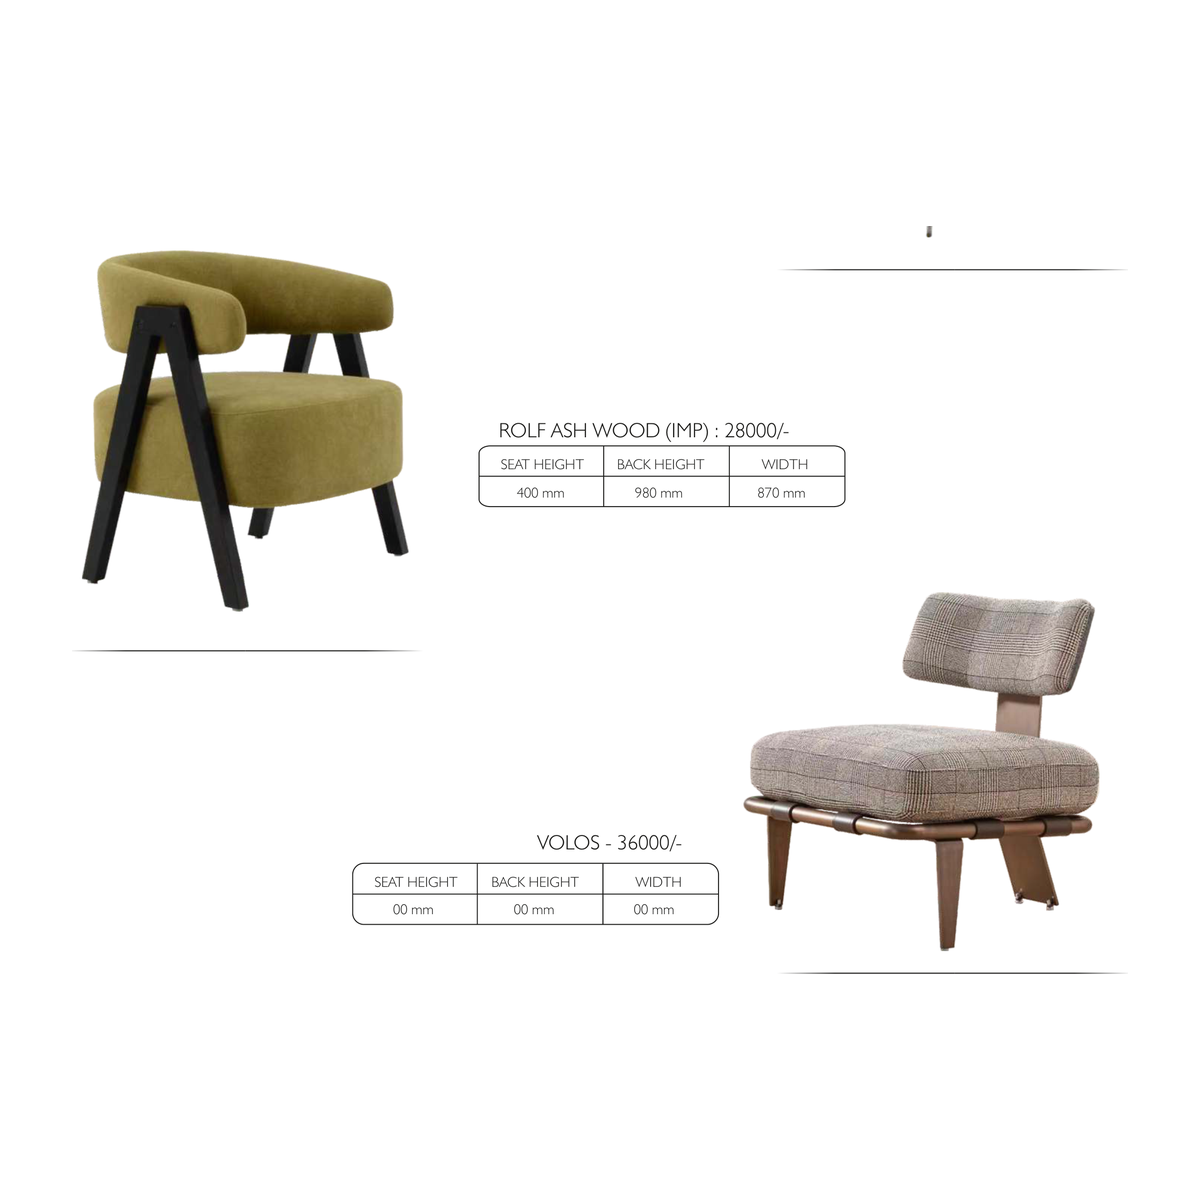
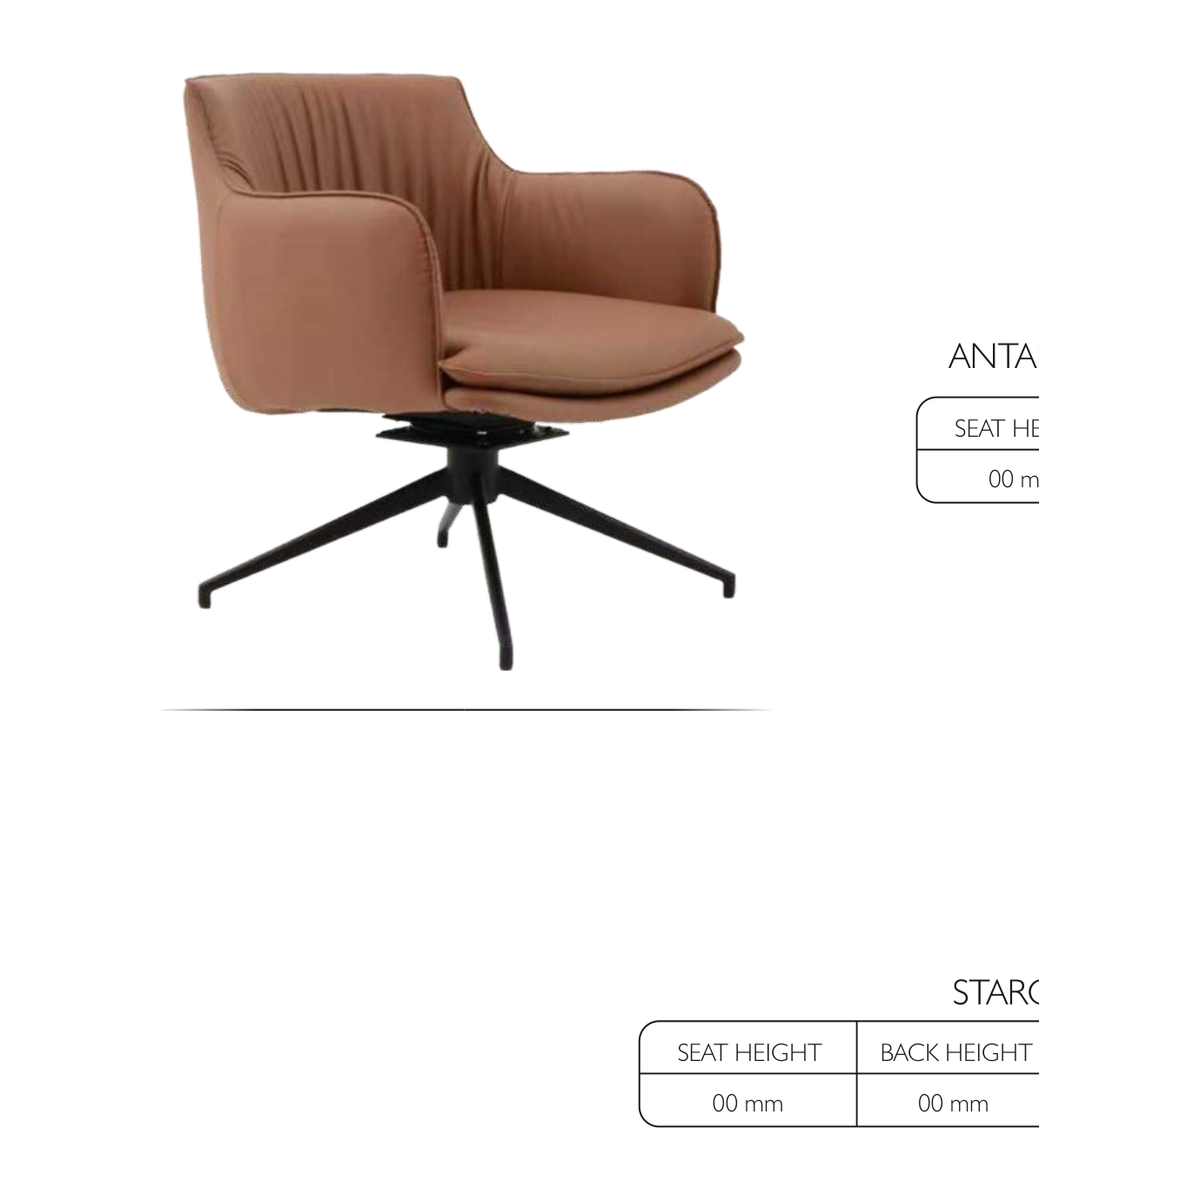
Split combined Rolf Ash Wood and Volos into 2 separate product cards

diff --git a/src/data/productsData.ts b/src/data/productsData.ts
@@ -18750,6 +18750,27 @@ export const PRODUCTS_DATA: ProductItem[] = [
     ]
   },
   {
+    "id": "PRD-LOU-0011B",
+    "title": "Volos",
+    "categoryId": "lounge",
+    "price": "Price on Request",
+    "rawPrice": 0,
+    "modelCode": "DV-LOU-0011B",
+    "sourcePdf": "LOUNGE  PRICELIST- AUG26.pdf",
+    "sourceFolder": "A -DIVINE CHAIRS PRICELIST",
+    "pageNumber": 4,
+    "image": "/extracted_product_images/11_Volos.png",
+    "warranty": "5-Year Commercial Warranty",
+    "bifmaCertified": true,
+    "leadTime": "2-3 Weeks",
+    "features": [
+      "Sculptural Deep-Seated Ergonomic Shell",
+      "High-Grade Commercial Velvet / Nappa Upholstery",
+      "Heavy-Duty Reinforced Base Frame",
+      "Commercial BIFMA Level 3 Certified"
+    ]
+  },
+  {
     "id": "PRD-LOU-0012",
     "title": "Austria",
     "categoryId": "lounge",
